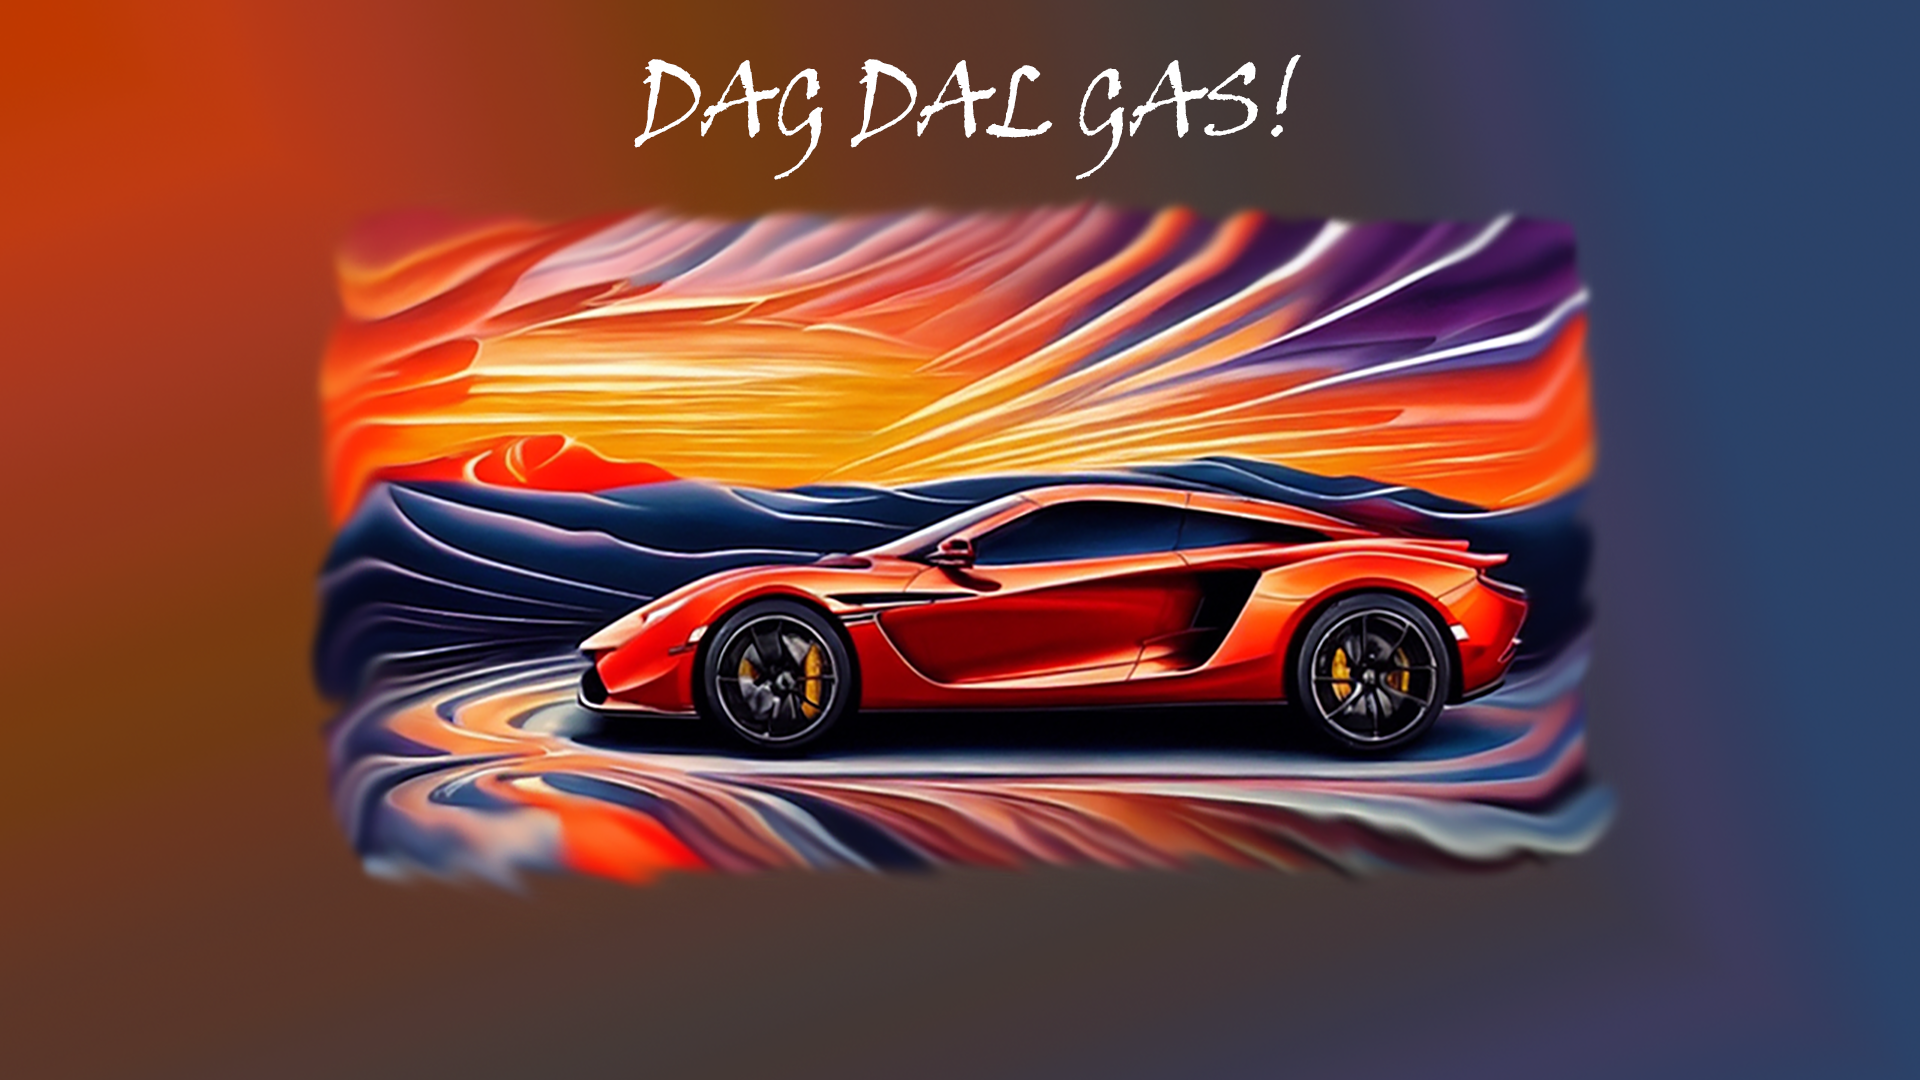
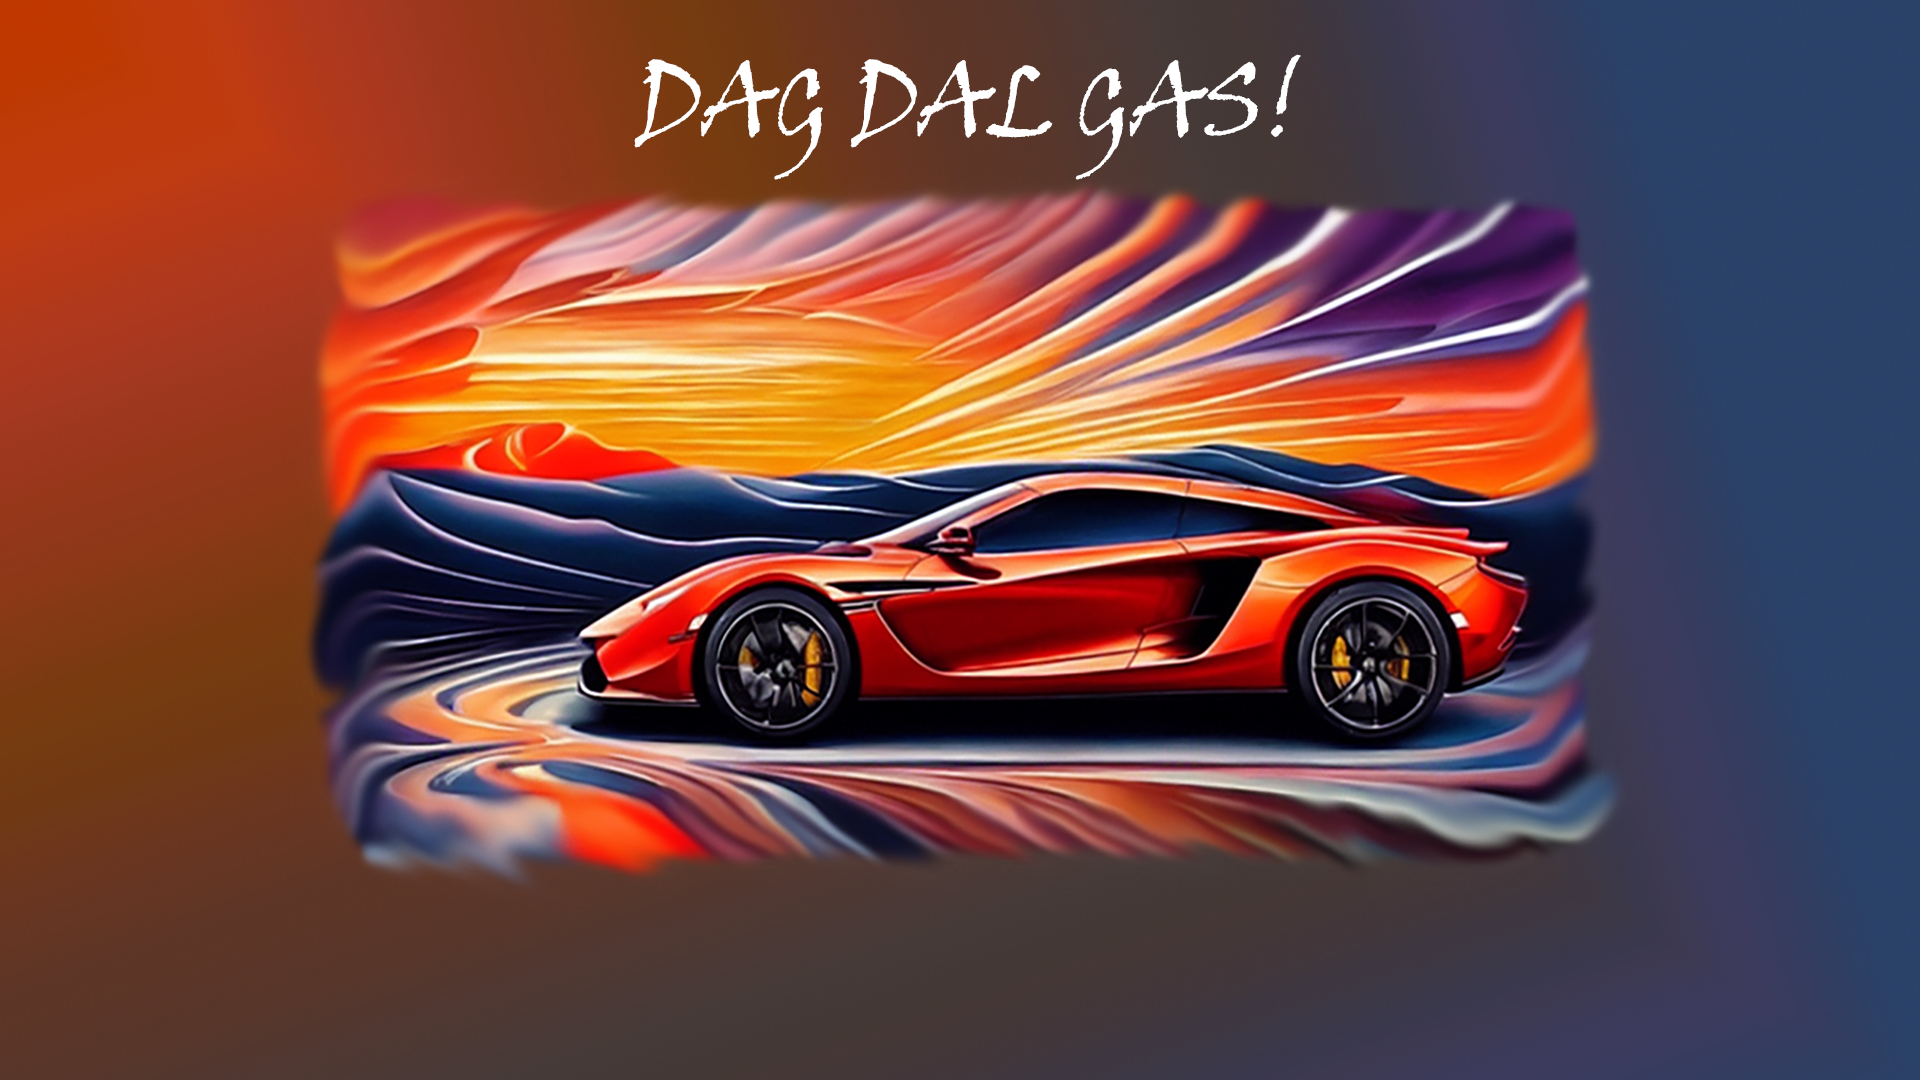
Fine pagina fittizia

Changed region(s): [[0.1562, 0.1528, 0.8438, 0.825]]

diff --git a/templates/base.html b/templates/base.html
@@ -14,6 +14,32 @@
                 margin-bottom: 0.5em;
             }
 
+            .left-navigator{
+                position: absolute;
+                bottom: 0;
+                width: 25%;
+                height: 5%;
+                left: 15%;
+                background: transparent;
+                color: white;
+                border: 0px;
+                font-size: 24;
+                font-family: Viner Hand ITC;
+            }
+
+            .right-navigator{
+                position: absolute;
+                bottom: 0;
+                width: 25%;
+                height: 5%;
+                left: 65%;
+                background: transparent;
+                color: white;
+                border: 0px;
+                font-size: 24;
+                font-family: Viner Hand ITC;
+            }
+
             .maincontent{
                 display: flex;
                 flex-direction: row;
@@ -211,6 +237,13 @@
                 flex: 6;
             }
 
+            .titolo1 {
+                display: flex;
+                flex-direction: column;
+                flex: 6;
+                background-image: url("{%static "/imgs/a.png"%}");
+            }
+
             .content {
                 background-image: url("{%static "/imgs/topres.png"%}");
                 height: auto;
@@ -244,11 +277,11 @@
             .jumper{
                 position: absolute;
                 z-index: 2;
-                top: 75%;
+                top: 80%;
                 left: 0%;
                 align: center;
                 width: 100%;
-                height: 25%;
+                height: 20%;
                 background: orange;
                 border: 3px solid black;
                 border-radius: 3px;
@@ -287,18 +320,24 @@
     <body>
        <div align="center">
             <div class="presentation">
-                <a href="#ricerca">
-                    <button style ="position: absolute; bottom: 0; width: 16%; height: 5%; left: 42%;">
-                        Prosegui per la ricerca!
+                <a href="#Mezzi">
+                    <button class="left-navigator" >
+                        Trova il mezzo dei tuoi sogni!
+                    </button>    
+                </a>
+
+                <a href="#accessori">
+                    <button class="right-navigator">
+                        Trova accessori per il tuo veicolo!
                     </button>    
                 </a>
             </div>
            
-            <div id="ricerca" class="maincontent">
+            <div id="Mezzi" class="maincontent" style="margin-top: 15px">
                 <div class="ricerca-leftbar">
                     <div class="selecter">
                         <h2>
-                            Scegli i tuoi filtri di ricerca!
+                            Usa i tuoi filtri di ricerca!
                         </h2>
                         <select>
                             <option selected>
@@ -343,7 +382,6 @@
                                 <label for="prezzomax" align="left"> Prezzo massimo:</label>
                                 <input id="prezzomax" type="number"/>
                         </div>
-
                     </div>
 
                     <div class="logger">
@@ -366,7 +404,6 @@
                             <input type="submit" value="Login">
                         </form>
                     </div>
-
                 </div>
                 
                 <div class="titolo">
@@ -375,42 +412,107 @@
                             Top results
                         </h1>
                     </header>
-                <main class="content">
-                <article>
-                    <div style="padding: 10px; width: 100%; height: 100%; display: flex; flex-wrap: wrap">
-                        {% for i in lista %}
-                        <a class="container">
-                            <button class="jumper">SCOPRI DI PIU'!</button>
-                            <div class="carsnippet">
-                                <img src="{%static "/imgs/500X.jpeg"%}" width="280" height="200" align= "left">
-                                <div id="descrizione" align= "right" style="text-align: left;">
-                                    <p style="font-size:32px; color:red; font-weight: bolder;margin-top: 0px; margin-bottom: 15px">
-                                    FIAT 500X
-                                    </p>
-                                    <p style="font-size:22px; color: green; font-weight: bolder; margin-top: 0px; margin-bottom: 15px">
-                                        11.000<br>
-                                    </p>
-                                    <p style="font-size:16px;">
-                                        Usato 
-                                        <span class="br"></span>
-                                        190.000Km
-                                        <span class="br"></span>
-                                        09/2015
-                                        <span class="br"></span>
-                                        Diesel 1200
-                                    </p>
-                                </div>    
+                    <main class="content">
+                        <article>
+                            <div style="padding: 10px; width: 100%; height: 100%; display: flex; flex-wrap: wrap">
+                                {% for i in lista %}
+                                <a class="container">
+                                    <button class="jumper">SCOPRI DI PIU'!</button>
+                                    <div class="carsnippet">
+                                        <img src="{%static "/imgs/500X.jpeg"%}" width="280" height="200" align= "left"/>
+                                        <div id="descrizione" align= "right" style="text-align: left;">
+                                            <p style="font-size:32px; color:red; font-weight: bolder;margin-top: 0px; margin-bottom: 15px">
+                                                FIAT 500X
+                                            </p>
+                                            <p style="font-size:22px; color: green; font-weight: bolder; margin-top: 0px; margin-bottom: 15px">
+                                                11.000<br>
+                                            </p>
+                                            <p style="font-size:16px;">
+                                                Usato 
+                                                <span class="br"></span>
+                                                190.000Km
+                                                <span class="br"></span>
+                                                09/2015
+                                                <span class="br"></span>
+                                                Diesel 1200
+                                            </p>
+                                        </div>    
+                                    </div>
+                                </a>
+                                {% endfor %}
                             </div>
-                        </a>
-                        {% endfor %}
+                        </article>
+                    </main>
+                </div>
+            </div>
+
+
+
+
+
+
+            <div id="accessori" class="maincontent" style="margin-top: 15px;">
+                <div class="ricerca-leftbar">
+                    <div class="selecter">
+                        <h2>
+                            Usa i tuoi filtri di ricerca!
+                        </h2>
+                        <select>
+                            <option selected>
+                                Automobili
+                            </option>
+                            <option>
+                                Motocicli
+                            </option>
+                        </select>
+                        
+                        <div class="prezzi">
+                            <h3 align="left">
+                                Prezzo:
+                            </h3>
+                                <label for="prezzomin" align="left"> Prezzo minimo:</label>
+                                <input id="prezzomin" type="number"/>
+                                <span class="br"></span>
+                                <label for="prezzomax" align="left"> Prezzo massimo:</label>
+                                <input id="prezzomax" type="number"/>
+                        </div>
                     </div>
-                </article>
-                  </main>
+
+                </div>
+                
+                <div class="titolo1">
+                    <header style="background-image: url("{%static "/imgs/a.png"%}");">
+                        <h1>
+                            I più richiesti!
+                        </h1>
+                    </header>
+                    <main style="background-image: url("{%static "/imgs/a.png"%}");" class="content">
+                        <article>
+                            <div style="padding: 10px; width: 100%; height: 100%; display: flex; flex-wrap: wrap">
+                                {% for i in num_acc %}
+                                <a class="container">
+                                    <button class="jumper">SCOPRI DI PIU'!</button>
+                                    <div class="carsnippet">
+                                        <img src="{%static "/imgs/strisce_led3.jpeg"%}" width="280" height="200" align= "left">
+                                        <div id="descrizione" align= "right" style="text-align: left;">
+                                            <p style="font-size:26px; color:red; font-weight: bolder;margin-top: 0px; margin-bottom: 15px">
+                                                Strisce led per casco
+                                            </p>
+                                            <p style="font-size:20px; color: green; font-weight: bolder; margin-top: 0px; margin-bottom: 15px">
+                                                11,00<br>
+                                            </p>
+                                        </div>    
+                                    </div>
+                                </a>
+                                {% endfor %}
+                            </div>
+                        </article>
+                    </main>
                 </div>
             </div>
             
         </div>
-        <img width: 100%; height: 100%; src="{%static "/imgs/ultimaschermata.png"%}" >
+        <img width: 100%; height: 100%; src="{%static "/imgs/ultimaschermata.png"%}" style="margin-top: 15px">
         <nav style="background-color: black; display: flex; flex-direction: row; width: 100%">
             <a class="link" href="#ricerca">Chi siamo</a>
             <a class="link" href="#ricerca">Contatti</a>

diff --git a/tecweb/views.py b/tecweb/views.py
@@ -3,5 +3,7 @@ from django.shortcuts import render
 
 def home_page(request):
     lista=range(1,39)
-    ctx = {"lista": lista}
+    num_acc=range(1,39)
+    ctx = {"lista": lista, "num_acc": num_acc}
     return render(request, template_name="base.html", context=ctx)
+
